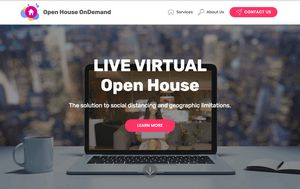
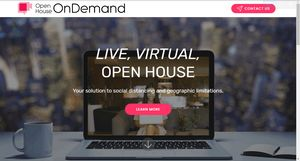
updated links
email and calendly

diff --git a/index.html b/index.html
@@ -55,14 +55,14 @@
         </div>
         <div class="collapse navbar-collapse" id="navbarSupportedContent">
             
-            <div class="navbar-buttons mbr-section-btn"><a class="btn btn-sm btn-secondary display-4" href="index.html" target="_blank"><span class="mbri-paper-plane mbr-iconfont mbr-iconfont-btn"></span>
+            <div class="navbar-buttons mbr-section-btn"><a class="btn btn-sm btn-secondary display-4" href="mailto:info@openhouse-ondemand.com"><span class="mbri-paper-plane mbr-iconfont mbr-iconfont-btn"></span>
                     
                     CONTACT US</a></div>
         </div>
     </nav>
 </section>
 
-<section class="engine"><a href="https://mobirise.info/e">make your own website for free</a></section><section class="cid-rUYBJGn7HG mbr-fullscreen mbr-parallax-background" id="header2-0">
+<section class="engine"><a href="https://mobirise.info/g">build a website for free</a></section><section class="cid-rUYBJGn7HG mbr-fullscreen mbr-parallax-background" id="header2-0">
 
     
 
@@ -95,7 +95,7 @@
                 <h2 class="align-center pb-3 mbr-fonts-style display-2">Safe, Scalable, Superb.</h2>
                 <h3 class="mbr-section-subtitle align-center mbr-light mbr-fonts-style display-5">
                     Give peace of mind to your clients and instant gratification to prospective buyers with an open house that's professionaly hosted by our concierges.</h3>
-                <div class="mbr-section-btn align-center py-4"><a class="btn btn-secondary-outline display-4" href="#top">GET STARTED</a></div>
+                <div class="mbr-section-btn align-center py-4"><a class="btn btn-secondary-outline display-4" href="https://calendly.com/openhouseondemand/consult">GET STARTED</a></div>
             </div>
         </div>
     </div>
@@ -199,7 +199,7 @@
                     Take your open house to the next level</h2>
             </div>
             <div class="media-container-column col-12 col-lg-3 col-md-4">
-                <div class="mbr-section-btn align-right py-4"><a class="btn btn-secondary display-4" href="https://mobirise.co">BOOK NOW</a> <a class="btn btn-secondary-outline display-4" href="https://mobirise.co">TALK TO US</a></div>
+                <div class="mbr-section-btn align-right py-4"><a class="btn btn-secondary display-4" href="https://calendly.com/openhouseondemand/consult" target="_blank">BOOK NOW</a> <a class="btn btn-secondary-outline display-4" href="https://calendly.com/openhouseondemand/consult" target="_blank">TALK TO US</a></div>
             </div>
         </div>
     </div>
@@ -220,45 +220,48 @@
                     </a>
                 </div>
                 <p class="mb-3 mbr-fonts-style foot-title display-7">OPEN HOUSE <br>ONDEMAND</p>
-                <p class="mbr-text mbr-fonts-style mbr-links-column display-7">
-                    <a href="#" class="text-secondary">About Us</a>
-                    <br><a href="#" class="text-secondary">Services</a>
-<br><a href="#" class="text-secondary">Get In Touch</a>
+                <p class="mbr-text mbr-fonts-style mbr-links-column display-7"><a href="mailto:info@openhouse-ondemand.com" class="text-secondary">Get In Touch</a>
                 </p>
             </div>
             <div class="col-md-4 col-sm-8">
                 <p class="mb-4 foot-title mbr-fonts-style display-7">
                     RECENT NEWS
                 </p>
-                <p class="mbr-text mbr-fonts-style foot-text display-7">
-                    Footer with solid color background and a contact form, Easily add subscribe and contact forms without any server-side integration.
-                    <br>
-                    <br>Mobirise helps you cut down development time by providing you with a flexible website editor with a drag and drop interface.
-                </p>
+                <p class="mbr-text mbr-fonts-style foot-text display-7"><br>We're open for business!<br><br>Welcome!</p>
             </div>
             <div class="col-md-4 offset-md-1 col-sm-12">
-                
-                
-                
-                <p class="mb-4 mbr-fonts-style foot-title display-7">
-                    <br>CONNECT WITH US
+                <p class="mb-4 foot-title mbr-fonts-style display-7">
+                    SUBSCRIBE
+                </p>
+                <p class="mbr-text mbr-fonts-style form-text display-7">
+                    Get monthly updates and free resources.
+                </p>
+                <div class="media-container-column" data-form-type="formoid">
+                    <!---Formbuilder Form--->
[1 lines of base64/hex data omitted]
+                        <div class="row form-inline justify-content-center">
+                            <div hidden="hidden" data-form-alert="" class="alert alert-success col-12">Thanks! You'll be hearing form us soon!</div>
+                            <div hidden="hidden" data-form-alert-danger="" class="alert alert-danger col-12">
+                                                    </div>
+                        </div>
+                        <div class="dragArea row form-inline justify-content-center">
+                            <div class="col-auto  form-group " data-for="email">
+                                <input type="email" name="email" placeholder="Email" data-form-field="Email" required="required" class="form-control input-sm input-inverse my-2 display-7" id="email-footer4-4">
+                            </div>
+                            <div class="col-auto  input-group-btn  m-2"><button type="submit" class="btn m-0 btn-secondary display-4">Subscribe</button></div>
+                        </div>
+                    </form><!---Formbuilder Form--->
+                </div>
+                <p class="mb-4 mbr-fonts-style foot-title display-7">CONNECT WITH US
                 </p>
                 <div class="social-list pl-0 mb-0">
                         <div class="soc-item">
-                            <a href="https://twitter.com/mobirise" target="_blank">
-                                <span class="mbr-iconfont mbr-iconfont-social socicon-linkedin socicon"></span>
+                            <a href="https://www.facebook.com/Open-House-OnDemand-106638067697715" target="_blank">
+                                <span class="mbr-iconfont mbr-iconfont-social socicon-facebook socicon"></span>
                             </a>
                         </div>
-                        <div class="soc-item">
-                            <a href="https://www.facebook.com/pages/Mobirise/1616226671953247" target="_blank">
-                                <span class="socicon-facebook socicon mbr-iconfont mbr-iconfont-social"></span>
-                            </a>
-                        </div>
-                        <div class="soc-item">
-                            <a href="https://www.youtube.com/c/mobirise" target="_blank">
-                                <span class="socicon-youtube socicon mbr-iconfont mbr-iconfont-social"></span>
-                            </a>
-                        </div>
+                        
+                        
                         
                         
                         
@@ -274,7 +277,7 @@
             <div class="media-container-row mbr-white">
                 <div class="col-sm-12 copyright">
                     <p class="mbr-text mbr-fonts-style display-7">
-                        © Copyright 2019 Mobirise - All Rights Reserved
+                        © Copyright 2019 Open House OnDemand - All Rights Reserved
                     </p>
                 </div>
             </div>
